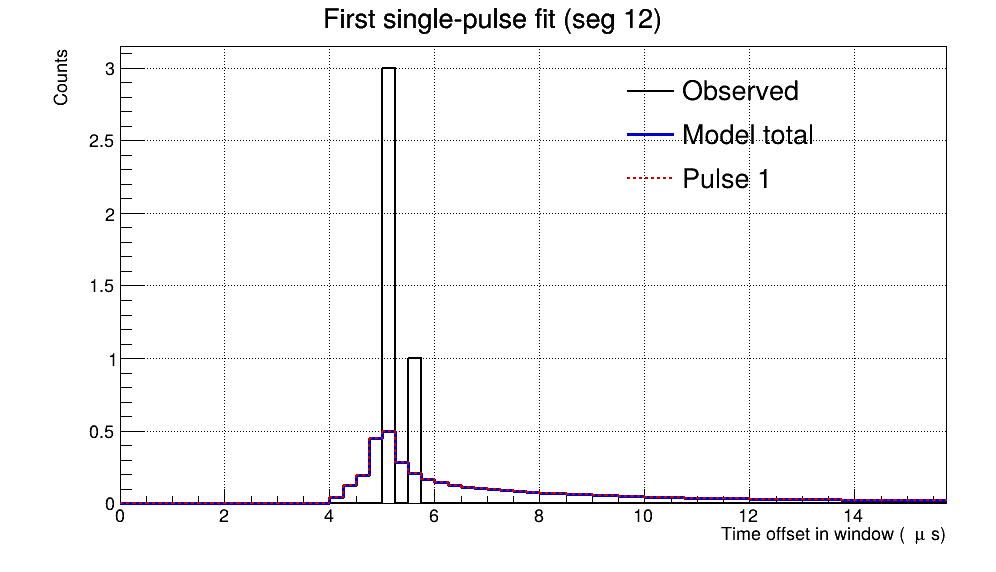
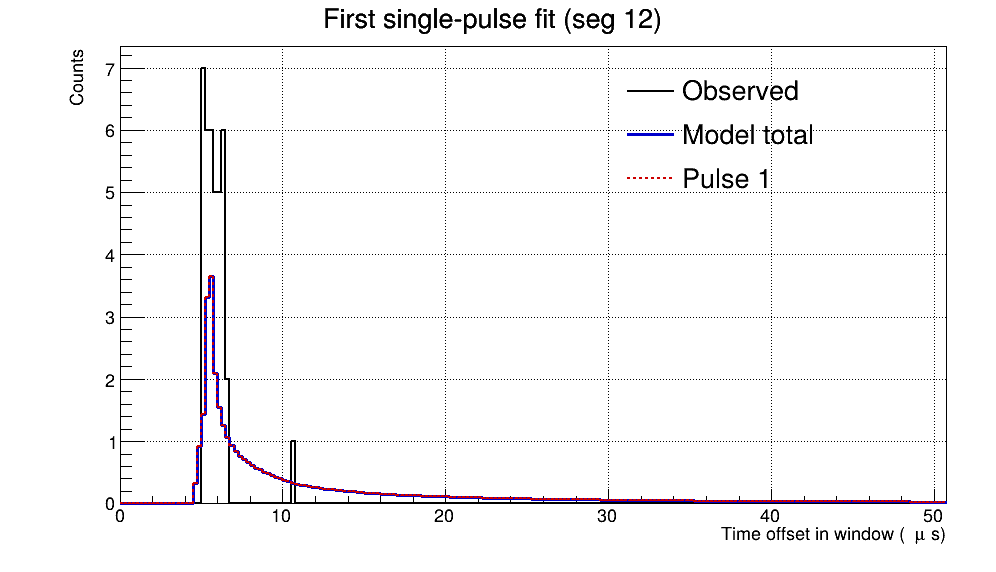
fixed d PDF (density dist. -> mass dist.)

diff --git a/include/PDF_Lookup.h b/include/PDF_Lookup.h
@@ -17,12 +17,11 @@ class PDF_Lookup {
         PDF_Lookup(double coarse_bw, double fine_bw, const std::string& csv_path);
 
         bool load_csv(const std::string& path);
-        bool has_segment(int seg_id) const { return seg_.count(seg_id) > 0; }
         const BasePDF* get(int seg_id) const {
             auto it = seg_.find(seg_id);
             return (it == seg_.end()) ? nullptr : &it->second;
         }
-
+        
     private:
         double dt_csv_us_;
         double coarseBinWidth_;
@@ -30,7 +29,6 @@ class PDF_Lookup {
         std::string csv_path_;
 
         std::unordered_map<int, BasePDF> seg_; // seg_id -> bases
-        std::map<std::pair<int, double>, std::vector<double>> cache_;
         
         static int parse_segment_name(const std::string& header); // "Segment_12" -> 12
         static void normalize_series(std::vector<double>& v, double dt);

diff --git a/src/PDF_Lookup.cpp b/src/PDF_Lookup.cpp
@@ -54,7 +54,6 @@ bool PDF_Lookup::load_csv(const std::string& path) {
         throw std::runtime_error("PDF_Lookup: fine/coarse bin widths must be > 0.");
 
     seg_.clear();
-    cache_.clear();
 
     for (size_t c = 1; c < C; ++c) {
         int seg_id = parse_segment_name(headers[c]);
@@ -69,7 +68,7 @@ bool PDF_Lookup::load_csv(const std::string& path) {
         }
 
         downsample(p_src, dt_csv_us_, b.p_f, fineBinWidth_);
-        normalize_series(b.p_f, fineBinWidth);
+        normalize_series(b.p_f, fineBinWidth_);
 
         if (!approx_int_multiple(coarseBinWidth_, b.fineBinWidth)) {
             if (!approx_int_multiple(coarseBinWidth_, dt_csv_us_)) {

diff --git a/src/FitCore.cpp b/src/FitCore.cpp
@@ -98,7 +98,7 @@ static double negLogL_core(const std::vector<double>& params,
 
         for (int t = 0; t < T; ++t) {
             double row = (1.0 - a) * r0[t] + a * r1[t];
-            double add = PE * row;
+            double add = PE * row * prob.bin_width_sec;
             if (!std::isfinite(add) || add < 0) return 1e300;
             expv[t] += add;
         }
